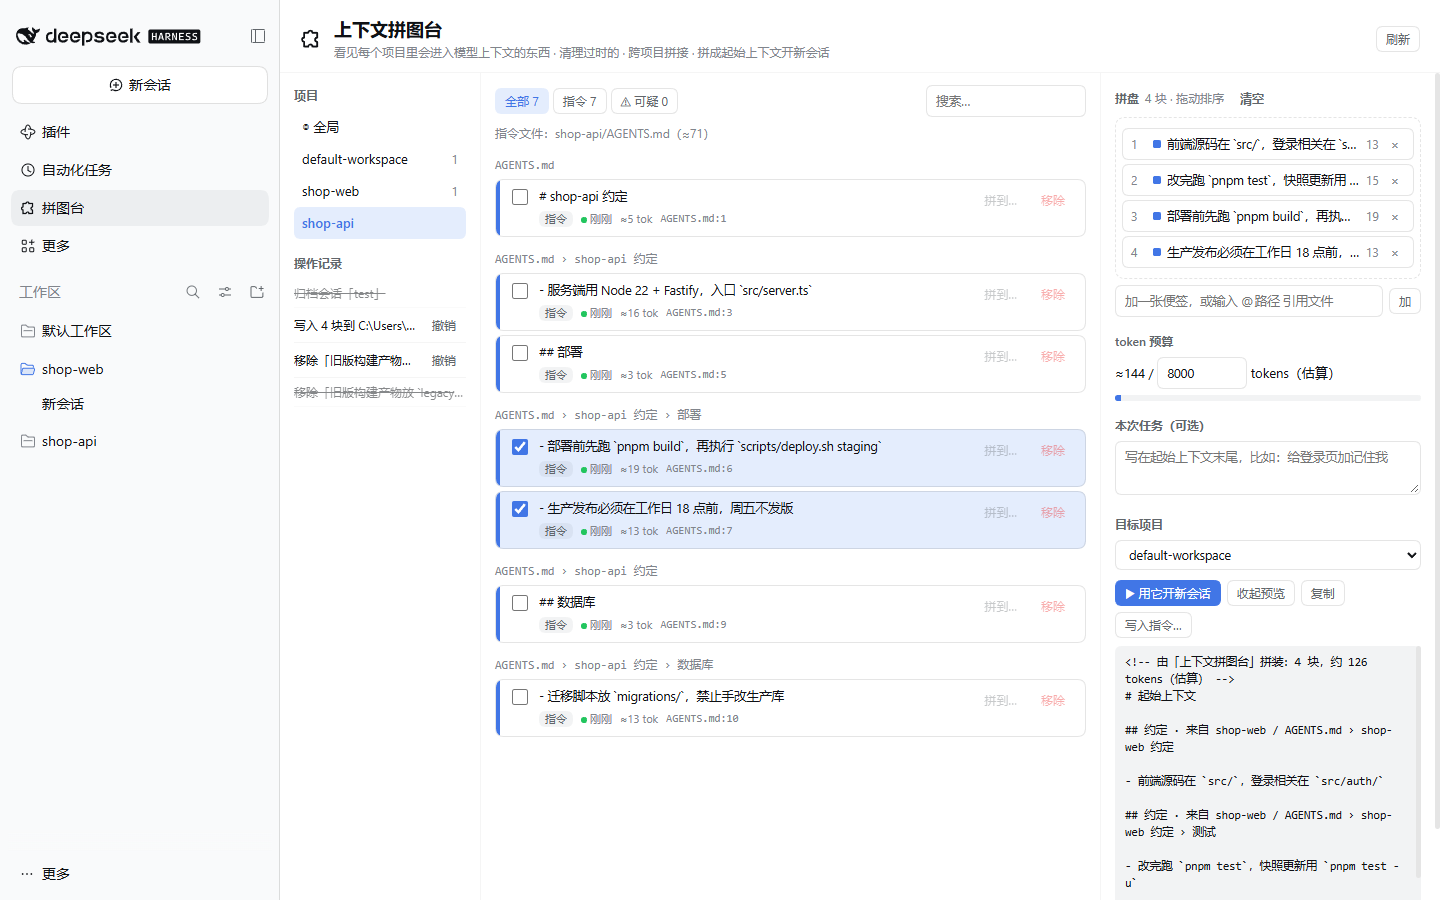
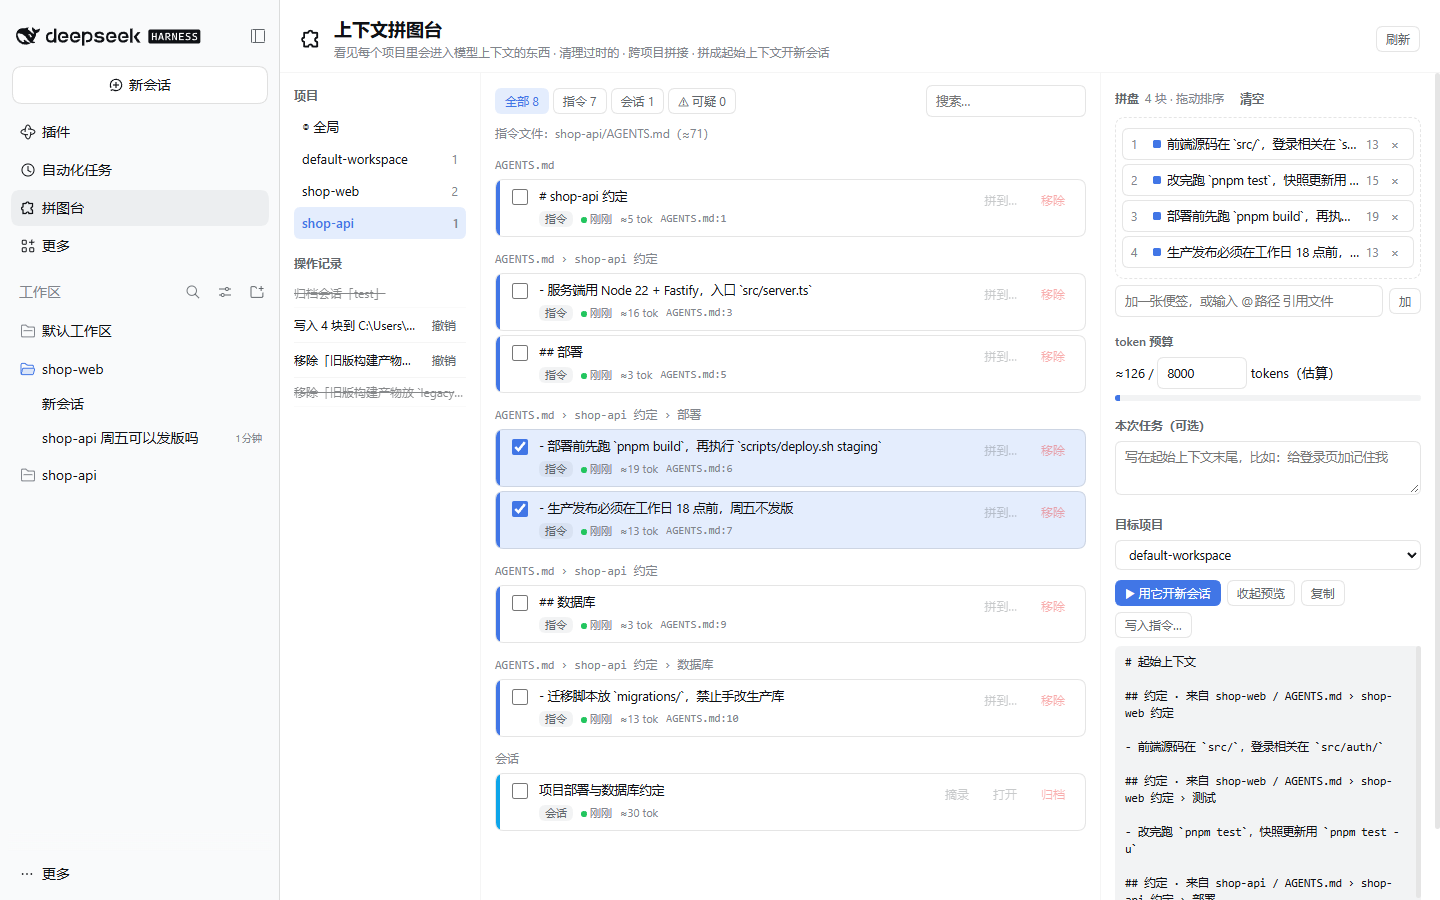
fix: 会话摘录只留用户亲手发的消息；起始上下文去掉注释头
用户在隔离 DSH 里填了 API key 之后，跑了真实对话实测：
- user/message 里混有运行时注入的上下文（不带 system-reminder 外壳），
  改为用 sessionQuery.readSession() 读 source.kind，只保留 'user'
- 起始上下文的 HTML 注释头会原样出现在气泡里，`>` 引用会被输入框折叠，
  都去掉/改为纯文本
- 实测会话引用：DSH 渲染会话芯片并附上引用快照，模型据此回答正确
- 补实测记录、截图，测试 42 个

diff --git a/lib/scan.js b/lib/scan.js
@@ -460,8 +460,26 @@ export function sessionMention(sessionId, label) {
 export async function sessionSnippets(sessionQuery, sessionId, limit = 80) {
   if (!sessionQuery?.filterEvents) throw new Error('当前环境没有会话查询服务')
   const docs = await sessionQuery.filterEvents(sessionId, [{ kind: 'type', values: ['user/message', 'assistant/message'] }])
+  // user/message 里除了用户亲手发的，还有运行时注入的上下文（工作区指令、时间、运行环境快照……）。
+  // 每条消息都带 source.kind，用户发的是 'user'（见 dsh-llm 的 MessageSourceMap 和 session-controller 的 'user-rpc'）。
+  /** @type {Map<number, string> | null} seq → source.kind */
+  let kinds = null
+  if (typeof sessionQuery.readSession === 'function') {
+    try {
+      const log = await sessionQuery.readSession(sessionId)
+      kinds = new Map()
+      for (const e of log?.events ?? []) {
+        if (e?.type === 'user/message') kinds.set(Number(e.seq), String(e.data?.source?.kind ?? ''))
+      }
+    } catch { kinds = null }
+  }
   return docs
-    .filter((/** @type {any} */ d) => typeof d.text === 'string' && d.text.trim() && !d.text.trimStart().startsWith('<system-reminder>'))
+    .filter((/** @type {any} */ d) => {
+      if (typeof d.text !== 'string' || !d.text.trim()) return false
+      if (d.type !== 'user/message') return true
+      if (kinds) return kinds.get(Number(d.seq)) === 'user'
+      return !d.text.trimStart().startsWith('<system-reminder>')
+    })
     .slice(-limit)
     .map((/** @type {any} */ d) => {
       const text = d.text.length > 4000 ? d.text.slice(0, 4000) + '…' : d.text

diff --git a/lib/compose.js b/lib/compose.js
@@ -74,7 +74,8 @@ function bodyOf(it, mode) {
       return mode === 'prompt' ? `- ${text}` : `- ${it.title ?? text}`
     case 'snippet': {
       const who = it.role === 'assistant' ? '助手' : it.role === 'user' ? '用户' : ''
-      return text.split('\n').map((l, i) => `> ${i === 0 && who ? `**${who}：** ` : ''}${l}`).join('\n')
+      // 不用 `>` 引用：DSH 输入框会把引用块折叠成引用卡片，并吞掉紧跟的分隔线
+      return `${who ? `**${who}：**\n` : ''}${text}`
     }
     case 'file': return `- ${/\s/.test(text) ? `@"${text.replace(/"/g, '')}"` : `@${text.replace(/^@/, '')}`}`
     default: return text
@@ -116,8 +117,8 @@ export function compose(items, options = {}) {
     const body = sections.join('\n\n')
     const task = options.task?.trim() || '（在这里写本次任务）'
     const draft = `# 起始上下文\n\n${body}${body ? '\n\n' : ''}---\n\n${task}\n`
-    const tokens = estimateTokens(draft)
-    text = `<!-- 由「上下文拼图台」拼装：${usable.length} 块，约 ${tokens.toLocaleString('en-US')} tokens（估算） -->\n${draft}`
+    // 不加 HTML 注释头：它会原样出现在对话气泡里。块数和 token 只在拼图台界面上显示
+    text = draft
   } else {
     text = sections.join('\n\n') + (sections.length ? '\n' : '')
   }

diff --git a/docs/DESIGN.md b/docs/DESIGN.md
@@ -132,7 +132,6 @@ token 估算：DeepSeek 官方给的经验值——1 个中文字符约 0.6 toke
 ### 拼好的起始上下文长什么样
 
 ```markdown
-<!-- 由「上下文拼图台」拼装：4 块，约 1,180 tokens（估算） -->
 # 起始上下文
 
 ## 约定 · 来自 api / AGENTS.md › 部署
@@ -142,7 +141,8 @@ token 估算：DeepSeek 官方给的经验值——1 个中文字符约 0.6 toke
 - @[修登录 bug](dsh-session:Ij...In0)
 
 ## 会话摘录 · 修登录 bug（2026-10-02）
-> 原因是 cookie 的 SameSite……
+**助手：**
+原因是 cookie 的 SameSite……
 
 ## 相关文件
 - @src/auth/login.ts
@@ -152,6 +152,8 @@ token 估算：DeepSeek 官方给的经验值——1 个中文字符约 0.6 toke
 ```
 
 会话引用用 DSH 原生的 `dsh-session:` 提及，发送后由 `dsh-session-reference` 展开为有界只读快照；文件用 `@path` 提及，模型需要时自己读。
+
+两处刻意的取舍（来自实测）：不加 HTML 注释头（它会原样出现在对话气泡里，块数和 token 只在拼图台界面显示）；摘录不用 `>` 引用（DSH 输入框会把引用块折叠成引用卡片，并吞掉紧跟的分隔线）。
 
 ## 7. 明确不做
 
@@ -188,7 +190,7 @@ Host（lib/host.js，全局 Cordis 插件，inject: webServer）
 
 ## 9. 实测记录（v0.1，2026-11-11）
 
-环境：桌面版 DSH `0.2.2-rc.1` 自带运行时；网页版 profile；隔离的 `DSH_HOME`（放在临时目录）；端口 4001；**没有配置 API key**。
+环境：桌面版 DSH `0.2.2-rc.1` 自带运行时；网页版 profile；隔离的 `DSH_HOME`（放在临时目录）；端口 4001。第 1–10 步在没有 API key 的情况下完成；第 11–13 步用的是用户自己在隔离 DSH 里填的 key（模型 DeepSeek-V4.1-Flash），插件本身从不读取或填写 key。
 安装：`dsh plugin --profile web add <插件目录>`，然后重启。演示用两个 git 项目：`shop-web` 和 `shop-api`。
 
 | # | 步骤 | 结果 |
@@ -201,8 +203,11 @@ Host（lib/host.js，全局 Cordis 插件，inject: webServer）
 | 6 | 写入指令 → shop-web / `AGENTS.local.md` | ✅ 新建了文件，内容用 `context-studio:begin/end` 标记包起来并写明 `from="shop-api"`；回到 shop-web，能看到这一块带「拼入」标签 |
 | 7 | ▶ 用它开新会话 | ✅ 打开 shop-web 的空白会话，输入框里填好了拼好的起始上下文，**没有发送** |
 | 8 | 归档会话 → 撤销（通过接口） | ✅ `workspace.json` 的 `archivedSessionIds` 先加上这个会话，撤销后又移除 |
-| 9 | 会话摘录 | ✅ 接口能用；演示会话没发过消息，返回空列表（没有 API key，所以没有对话内容） |
+| 9 | 会话摘录（无 key 时） | ✅ 接口能用；演示会话没发过消息，返回空列表 |
 | 10 | 跨站请求（带 `Origin: http://evil.com`） | ✅ 返回 403 `cross-origin` |
+| 11 | 用拼盘在 shop-api 开会话并发送「只根据工作区指令说明部署和数据库约定」 | ✅ 模型准确复述了 shop-api 的 `AGENTS.md`，说明指令确实进入了上下文；会话自动命名为「项目部署与数据库约定」 |
+| 12 | 在拼图台里看这个会话的摘录 | ✅ 修复后只列出用户发的那条和助手的回答（修复前还混进了运行时注入的「Current runtime context…」「Time sampled…」两条，见下） |
+| 13 | 把这个会话的 `@会话` 引用 + 助手回答摘录拼进拼盘，目标 shop-web，任务「只根据上面的参考会话回答：shop-api 周五可以发版吗？」，开新会话并发送 | ✅ DSH 把提及渲染成会话芯片，消息下方显示「引用会话 · 项目部署与数据库约定」；模型回答「不可以……周五不发版」 |
 
 实测中发现并修复的问题：
 
@@ -210,10 +215,11 @@ Host（lib/host.js，全局 Cordis 插件，inject: webServer）
 - 全局文件原来显示成很长的绝对路径，现在显示为 `$DSH_HOME/AGENTS.md`；「重复」标记也改成指向这个短名。
 - 拼入的块原来直接显示 HTML 注释标记，现在只显示正文，并加上「拼入 · 来自 X · 日期」标签。
 - 操作记录里的「写入」原来显示绝对路径，现在显示「项目名/文件名（来自 X）」。
+- **会话摘录混进了运行时注入的消息。** `user/message` 事件不只有用户亲手发的，还有运行时注入的上下文快照、时间等，它们不带 `<system-reminder>` 外壳。现在通过 `sessionQuery.readSession()` 读到每条消息的 `source.kind`，只保留 `kind === 'user'` 的（来源：`dsh-llm` 的 `MessageSourceMap`、session-controller 的 `'user-rpc'`）；读不到时退回旧规则。
+- **起始上下文的 HTML 注释头出现在对话气泡里，`>` 引用的摘录被折叠。** 现在去掉注释头，摘录改成「**助手：**」加正文。
 
 已知限制：
 
 - 网页版里点「添加工作区」会在宿主机上弹出原生文件夹选择框。实测时没有通过它添加工作区，而是在 DSH 停止时直接往隔离目录的 `storages/workspace.json` 里写入了两个工作区记录。这是实测环境的准备步骤，和插件无关。
-- 会话摘录需要会话里真的有对话。本次没有 API key，只用单元测试和假的 `sessionQuery` 覆盖了这部分（会过滤掉 `<system-reminder>` 注入的消息和空消息）。
 
-单元测试：`npm test`，41 个用例全部通过。覆盖拆块、删块、追加、token 估算、扫描与体检、会话、备份与撤销、冲突检测、并发串行、日志损坏恢复、拼盘渲染、请求校验，以及一次挂到真实 HTTP 服务上的端到端流程。
+单元测试：`npm test`，42 个用例全部通过。覆盖拆块、删块、追加、token 估算、扫描与体检、会话、备份与撤销、冲突检测、并发串行、日志损坏恢复、拼盘渲染、请求校验，以及一次挂到真实 HTTP 服务上的端到端流程。

diff --git a/CHANGELOG.md b/CHANGELOG.md
@@ -10,3 +10,5 @@
 - 拼盘：勾选或拖入素材，拖动排序，可加便签和 `@文件`，有 token 预算条和预览。
 - 出口：预填草稿开新会话（不自动发送）、写入目标项目的 `AGENTS.local.md` / `AGENTS.md`（带来源标记）、复制。
 - 接口只接受本机同源请求，写操作要求带自定义头。
+- 会话摘录按消息的 `source.kind` 只保留用户亲手发的消息，过滤掉运行时注入的上下文。
+- 起始上下文不带 HTML 注释头，摘录不用 `>` 引用（避免在 DSH 里被显示成杂讯或被折叠）。
